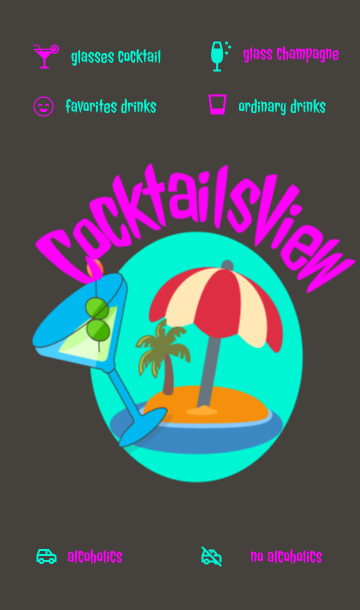
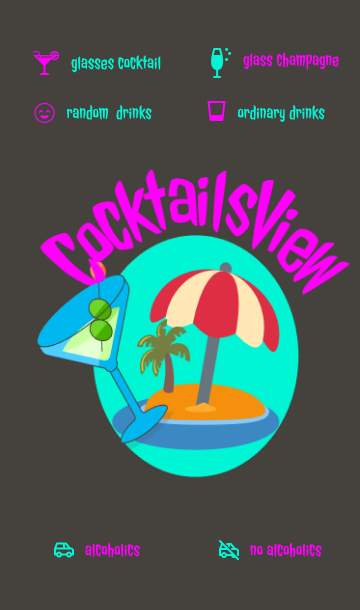
varias screens

diff --git a/app/src/main/java/com/example/proyectococktail/Cocktails/ui/Viewmodel.kt b/app/src/main/java/com/example/proyectococktail/Cocktails/ui/Viewmodel.kt
@@ -21,11 +21,11 @@ import androidx.compose.ui.unit.dp
 import androidx.compose.ui.unit.sp
 import androidx.lifecycle.ViewModel
 import androidx.lifecycle.viewModelScope
+import com.example.proyectococktail.Cocktails.Domain.AlcoholicsCocktail
 import com.example.proyectococktail.Cocktails.Domain.NameUseCase
 import com.example.proyectococktail.Cocktails.Domain.RandomCocktail
 import com.example.proyectococktail.Cocktails.Model.CocktailUser
 import com.example.proyectococktail.Cocktails.Model.Response.User
-import com.example.proyectococktail.Cocktails.Model.Routes
 import com.example.proyectococktail.Cocktails.ui.State.drinkState
 import com.example.proyectococktail.basilkeyoutline.BasilKeyOutline
 import com.example.proyectococktail.complogin.CompLogIn
@@ -34,7 +34,6 @@ import com.example.proyectococktail.eiuser.EiUser
 import com.example.proyectococktail.fluentemojihighcontrastenvelope.FluentEmojiHighContrastEnvelope
 import com.example.proyectococktail.home.jollyLodger
 import com.example.proyectococktail.keygreen.KeyGreen
-import com.example.proyectococktail.signupdecision.SignUpdecision
 import com.example.proyectococktail.sobregreen.SobreGreen
 import com.google.firebase.Firebase
 import com.google.firebase.auth.FirebaseAuth
@@ -51,7 +50,7 @@ import java.lang.Exception
 import javax.inject.Inject
 
 @HiltViewModel
-class Viewmodel @Inject constructor(private val nameUseCase: NameUseCase, private val randomCocktail: RandomCocktail): ViewModel() {
+class Viewmodel @Inject constructor(private val nameUseCase: NameUseCase, private val randomCocktail: RandomCocktail, private val alcoholicsCocktail: AlcoholicsCocktail): ViewModel() {
     private val auth: FirebaseAuth = Firebase.auth
     private val firestore: FirebaseFirestore = Firebase.firestore
     //private val _games = MutableStateFlow<List<GameInfoState>>(emptyList())
@@ -65,6 +64,9 @@ class Viewmodel @Inject constructor(private val nameUseCase: NameUseCase, privat
     var _ingredient by mutableStateOf("")
         private set
 
+    var _ingredient2 by mutableStateOf("")
+        private set
+
     var pantallasI by mutableStateOf(0)
         private set
 
@@ -74,6 +76,9 @@ class Viewmodel @Inject constructor(private val nameUseCase: NameUseCase, privat
     val show: MutableState<Boolean> = _show
 
     var email by mutableStateOf("")
+        private set
+
+    var number by mutableStateOf(0)
         private set
 
     var password by mutableStateOf("")
@@ -116,6 +121,12 @@ class Viewmodel @Inject constructor(private val nameUseCase: NameUseCase, privat
         }
     }
 
+    fun vCocktailAlcoholic(){
+        viewModelScope.launch {
+            _nombre.value = alcoholicsCocktail().drinks
+        }
+    }
+
     fun IngredientsUser(ingredientes: CocktailUser): String{
         _ingredient = ""
         for(ingrediente in ingredientes.strList!!){
@@ -137,6 +148,18 @@ class Viewmodel @Inject constructor(private val nameUseCase: NameUseCase, privat
         return _ingredient
     }
 
+    fun IngredientsCard(ingredientes: drinkState): String{
+        _ingredient2 = ""
+        val lista = mutableListOf<String>(ingredientes.strIngredient1?: "vacio", ingredientes.strIngredient2?: "vacio", ingredientes.strIngredient3?: "vacio", ingredientes.strIngredient4?: "vacio",
+            ingredientes.strIngredient5?: "vacio", ingredientes.strIngredient6?: "vacio", ingredientes.strIngredient7?: "vacio", ingredientes.strIngredient8?: "vacio",
+            ingredientes.strIngredient9?: "vacio", ingredientes.strIngredient10?: "vacio", ingredientes.strIngredient11?: "vacio", ingredientes.strIngredient12?: "vacio",
+            ingredientes.strIngredient3?: "vacio", ingredientes.strIngredient14?: "vacio", ingredientes.strIngredient15?: "vacio")
+        for(ingrediente in lista){
+            if(ingrediente.equals("vacio")) break else _ingredient2 += "$ingrediente "
+        }
+        return _ingredient2
+    }
+
 
 
     fun calculateBackgroundColor(index: Int): Color {
@@ -150,6 +173,7 @@ class Viewmodel @Inject constructor(private val nameUseCase: NameUseCase, privat
                      strInstructions: String,
                      strDrinkThumb: String,
                      strList: MutableList<String>){
+        listaIngredientes = mutableListOf()
         val email = auth.currentUser?.email
         for(ingrediente in strList){
             if(ingrediente.equals("vacio")) continue else listaIngredientes.add(ingrediente)
@@ -224,6 +248,7 @@ class Viewmodel @Inject constructor(private val nameUseCase: NameUseCase, privat
         }
     }
 
+    //newCocktail: CocktailUser
     fun saveNewCocktail(onSuccess: () -> Unit) {
         val email = auth.currentUser?.email
 
@@ -318,12 +343,22 @@ class Viewmodel @Inject constructor(private val nameUseCase: NameUseCase, privat
     }
 
     @Composable
-    fun Head()
+    fun Head(number: Int)
         {
             Column(Modifier.fillMaxWidth().background(color = Color(0xFF45413C)),
             horizontalAlignment = Alignment.CenterHorizontally) {
             Text(text = alochol, fontFamily = jollyLodger, fontSize = 32.sp, color = Color(0xFF00F5D4))
-            Text(text = cocktail, fontFamily = jollyLodger, fontSize = 24.sp, color = Color(0xFFFF01FB))
+            //Text(text = cocktail, fontFamily = jollyLodger, fontSize = 24.sp, color = Color(0xFFFF01FB))
+                when (number){
+                    1 -> {Text(text = "Glass Cocktail", fontFamily = jollyLodger, fontSize = 24.sp, color = Color(0xFFFF01FB))}
+                    2 -> {Text(text = "Glass Champagne", fontFamily = jollyLodger, fontSize = 24.sp, color = Color(0xFFFF01FB))}
+                    3 -> {Text(text = "Random Drinks", fontFamily = jollyLodger, fontSize = 24.sp, color = Color(0xFFFF01FB))}
+                    4 -> Text(text = "Ordinary Drinks", fontFamily = jollyLodger, fontSize = 24.sp, color = Color(0xFFFF01FB))
+                    5 -> Text(text = "Alcoholics", fontFamily = jollyLodger, fontSize = 24.sp, color = Color(0xFFFF01FB))
+                    6 -> Text(text = "No Alcoholics", fontFamily = jollyLodger, fontSize = 24.sp, color = Color(0xFFFF01FB))
+                    7 -> {Text(text = "Favorites", fontFamily = jollyLodger, fontSize = 32.sp, color = Color(0xFFFF01FB))}
+                }
+                Text(text = cocktail, fontFamily = jollyLodger, fontSize = 24.sp, color = Color(0xFFFF01FB))
         }
     }
 
@@ -382,6 +417,10 @@ class Viewmodel @Inject constructor(private val nameUseCase: NameUseCase, privat
      */
     fun changePassword(password: String) {
         this.password = password
+    }
+
+    fun changeScreen(screen: Int) {
+        this.number = screen
     }
 
     fun changeNameCocktail(name:String){

diff --git a/app/src/main/java/com/example/proyectococktail/Cocktails/ui/Screen3.kt b/app/src/main/java/com/example/proyectococktail/Cocktails/ui/Screen3.kt
@@ -1,6 +1,5 @@
 package com.example.proyectococktail.Cocktails.ui
 
-import android.widget.Toast
 import androidx.compose.foundation.Image
 import androidx.compose.foundation.background
 import androidx.compose.foundation.border
@@ -16,7 +15,6 @@ import androidx.compose.foundation.layout.width
 import androidx.compose.foundation.lazy.LazyColumn
 import androidx.compose.foundation.lazy.itemsIndexed
 import androidx.compose.foundation.shape.RoundedCornerShape
-import androidx.compose.material3.Button
 import androidx.compose.material3.Scaffold
 import androidx.compose.material3.Text
 import androidx.compose.runtime.Composable
@@ -33,7 +31,6 @@ import androidx.compose.ui.unit.sp
 import androidx.navigation.NavController
 import coil.compose.rememberImagePainter
 import com.example.proyectococktail.Cocktails.Model.Routes
-import com.example.proyectococktail.home.Home
 import com.example.proyectococktail.home.jollyLodger
 
 @Composable
@@ -47,7 +44,7 @@ fun Screen3(navController: NavController, viewModel: Viewmodel){
         topBar = {
             Column {
                 Cabecera(navController, viewModel)
-                viewModel.Head()
+                viewModel.Head(viewModel.number)
             }
             },
         bottomBar = { Box(Modifier.fillMaxWidth().height(75.dp).background(color = Color(0xFF45413C)),
@@ -80,7 +77,6 @@ fun Screen3(navController: NavController, viewModel: Viewmodel){
                                         item.strIngredient4 ?: "vacio",
                                         item.strIngredient5 ?: "vacio",
                                         item.strIngredient6 ?: "vacio",
-                                        item.strIngredient6 ?: "vacio",
                                         item.strIngredient7 ?: "vacio",
                                         item.strIngredient8 ?: "vacio",
                                         item.strIngredient9 ?: "vacio",
@@ -91,6 +87,7 @@ fun Screen3(navController: NavController, viewModel: Viewmodel){
                                         item.strIngredient15 ?: "vacio",
                                     )
                                 )
+                                viewModel.IngredientsCard(item)
                                 viewModel.changeSelectedRow(item.idDrink)
                                 viewModel.alcoholicOrno(item.strAlcoholic)
                                 viewModel.changeCocktail(item.strDrink)

diff --git a/app/src/main/java/com/example/proyectococktail/Cocktails/ui/Cards.kt b/app/src/main/java/com/example/proyectococktail/Cocktails/ui/Cards.kt
@@ -15,8 +15,6 @@ import androidx.compose.foundation.lazy.LazyColumn
 import androidx.compose.foundation.shape.RoundedCornerShape
 import androidx.compose.material3.Button
 import androidx.compose.material3.Card
-import androidx.compose.material3.CardColors
-import androidx.compose.material3.CardDefaults
 import androidx.compose.material3.Scaffold
 import androidx.compose.material3.Text
 import androidx.compose.runtime.Composable
@@ -45,7 +43,7 @@ fun Cards(navController: NavController, viewModel: Viewmodel){
             topBar = {
                 Column {
                     Cabecera(navController, viewModel)
-                    viewModel.Head()
+                    viewModel.Head(viewModel.number)
                 }
             },
             bottomBar = { Box(
@@ -54,7 +52,7 @@ fun Cards(navController: NavController, viewModel: Viewmodel){
                     .height(75.dp)
                     .background(color = Color(0xFF45413C)),
                 contentAlignment = Alignment.Center) {
-                Text(text = "Add favorites", fontFamily = jollyLodger, color = Color(0xFFFF01FB), fontSize = 36.sp, modifier = Modifier.clickable { viewModel.saveNewCocktail { Toast.makeText(context, "Cocktail guardado correctamente", Toast.LENGTH_SHORT).show()
+                Text(text = "Add favorites", fontFamily = jollyLodger, color = Color(0xFFFF01FB), fontSize = 36.sp, modifier = Modifier.clickable { viewModel.saveNewCocktail() { Toast.makeText(context, "Cocktail guardado correctamente", Toast.LENGTH_SHORT).show()
                     navController.popBackStack() }  })
             }
             }
@@ -94,7 +92,7 @@ fun Cards(navController: NavController, viewModel: Viewmodel){
                                         .padding(5.dp),
                                     textAlign = TextAlign.Center)
                             }
-                            Text(text = "Ingredients:\n${viewModel._ingredient}",
+                            Text(text = "Ingredients:\n${viewModel._ingredient2}",
                                 modifier = Modifier
                                     .fillMaxWidth()
                                     .padding(5.dp),

diff --git a/app/src/main/java/com/example/proyectococktail/Cocktails/Model/Repository.kt b/app/src/main/java/com/example/proyectococktail/Cocktails/Model/Repository.kt
@@ -27,6 +27,56 @@ class Repository @Inject constructor(private val api: CocktailsView) {
         }
     }
 
+    suspend fun vCocktailAlcoholic(): CocktailState{
+        //return api.vCocktail()
+        val response = api.getAlcoholics()
+        return if(response.isSuccessful){
+            response.body()?.getDrink() ?: CocktailState()
+        }else {
+            CocktailState()
+        }
+    }
+
+    suspend fun vCocktailNoAlcoholic(): CocktailState{
+        //return api.vCocktail()
+        val response = api.getNoAlcoholics()
+        return if(response.isSuccessful){
+            response.body()?.getDrink() ?: CocktailState()
+        }else {
+            CocktailState()
+        }
+    }
+
+    suspend fun vCocktailOrdinary(): CocktailState{
+        //return api.vCocktail()
+        val response = api.getOrdinary()
+        return if(response.isSuccessful){
+            response.body()?.getDrink() ?: CocktailState()
+        }else {
+            CocktailState()
+        }
+    }
+
+    suspend fun vCocktailChampagne(): CocktailState{
+        //return api.vCocktail()
+        val response = api.getGlassChampagne()
+        return if(response.isSuccessful){
+            response.body()?.getDrink() ?: CocktailState()
+        }else {
+            CocktailState()
+        }
+    }
+
+    suspend fun vCocktailGlass(): CocktailState{
+        //return api.vCocktail()
+        val response = api.getGlassCocktail()
+        return if(response.isSuccessful){
+            response.body()?.getDrink() ?: CocktailState()
+        }else {
+            CocktailState()
+        }
+    }
+
 
 
     private fun Cocktail.getDrink(): CocktailState{
@@ -39,6 +89,7 @@ class Repository @Inject constructor(private val api: CocktailsView) {
         return drinkState(
             idDrink = this.idDrink ?: "vacio",
             strDrink = this.strDrink ?: "vacio",
+            strAlcoholic =this.strAlcoholic ?: "vacio",
             strInstructions = this.strInstructions ?: "vacio",
             strDrinkThumb = this.strDrinkThumb ?: "vacio",
             strIngredient1 = this.strIngredient1 ?: "vacio",

diff --git a/app/src/main/java/com/example/proyectococktail/Cocktails/ui/ScreenHome.kt b/app/src/main/java/com/example/proyectococktail/Cocktails/ui/ScreenHome.kt
@@ -37,7 +37,11 @@ fun ScreenHome(navController: NavController, viewModel: Viewmodel){
         topBar = {Cabecera(navController, viewModel)},
         bottomBar = {Pie()}
     ){innerPadding ->
-        Home(Modifier.padding(innerPadding))
+        Home(Modifier.padding(innerPadding), {viewModel.getRandom()
+            viewModel.changeScreen(3)
+            navController.navigate(Routes.screen3.Route)}, {}, {}, {}, {viewModel.vCocktailAlcoholic()
+            viewModel.changeScreen(5)
+            navController.navigate(Routes.screen3.Route)})
     }
 }
 

diff --git a/app/src/main/java/com/example/proyectococktail/Cocktails/Domain/AlcoholicsCocktail.kt b/app/src/main/java/com/example/proyectococktail/Cocktails/Domain/AlcoholicsCocktail.kt
@@ -1,0 +1,11 @@
+package com.example.proyectococktail.Cocktails.Domain
+
+import com.example.proyectococktail.Cocktails.Model.Repository
+import com.example.proyectococktail.Cocktails.ui.State.CocktailState
+import javax.inject.Inject
+
+class AlcoholicsCocktail @Inject constructor(private val repository: Repository) {
+    suspend operator fun invoke(): CocktailState {
+        return repository.vCocktailAlcoholic()
+    }
+}

diff --git a/app/src/main/java/com/example/proyectococktail/Cocktails/ui/State/DrinkState.kt b/app/src/main/java/com/example/proyectococktail/Cocktails/ui/State/DrinkState.kt
@@ -3,7 +3,7 @@ package com.example.proyectococktail.Cocktails.ui.State
 data class drinkState(
     val idDrink: String = "",
     val strDrink: String = "",
-    val strAlcoholic: String = "",
+    val strAlcoholic: String,
     val strInstructions: String? = "",
     val strDrinkThumb: String? = "",
     val strIngredient1: String? = "",
